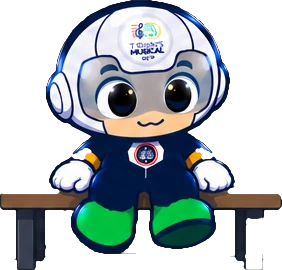
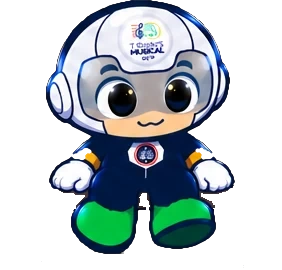
SETPI: el bus espera el rojo peatonal, la banca ya no se corta; Terminal Juridica se actualiza en vivo
- Los buses del viaje (llegada y salida, incluido el que deja a SETPI) solo se mueven con el semaforo peatonal en rojo y con tiempo suficiente; si coincide con el verde esperan
- La banca es un objeto aparte, igual en todos los cuadros: se quitan tablon y patas de bench_1..3 (venian cortados y cambiaban entre cuadros) y aparece detras de SETPI al sentarse
- Terminal Juridica: se actualiza sola cada 15 s (tambien al volver a la pestana o recuperar red), indicador En vivo con la hora de la ultima sincronizacion y espacio para el enlace de la matriz de procesos

diff --git a/setpi/scenes.js b/setpi/scenes.js
@@ -236,8 +236,12 @@
     });
     /* sentado en una banca balanceando las piernas (esperando) */
     def('bench', 'rest', 120, c => (c.ph === 'pin' && c.idle > 25) || (c.ph === 'lobby' && c.n <= 2 && c.idle > 20) ? 2.6 : (c.ph === 'lobby' || c.ph === 'pin') && c.idle > 14 ? .6 : 0, async () => {
-      P.setState('IDLE'); const s = P.spot({ lane: 'L' }); await P.goTo(s.x, s.y); await fit('bench'); await P.front(); await hold(.4);
-      a.fx('dust', { n: 2 }); await a.play(C.bench(2 + (Math.random() < .5 ? 1 : 0))); fin();
+      P.setState('IDLE'); const s = P.spot({ lane: 'L' }); await P.goTo(s.x, s.y); await fit('bench'); await P.front();
+      const bq = D.banca;       // la banca es un objeto aparte (igual en todos los cuadros): aparece detrás de SETPI, él se sienta, y se va al levantarse
+      try {
+        if (bq) { bq.pon(a.x, a.y - a.lift, a.S); bq.muestra(true); }
+        await hold(.45); a.fx('dust', { n: 2 }); await a.play(C.bench(2 + (Math.random() < .5 ? 1 : 0))); fin(); await hold(.3);
+      } finally { if (bq) bq.muestra(false); }
     }, ['bench']);
     /* un bus pasa por detrás: lo mira y lo saluda */
     def('busWave', 'bus', 30, c => D.busTarget && c.ph !== 'podium' ? (c.ph === 'quiz' ? 1.5 : 5.5) : 0, async () => {
@@ -246,14 +250,18 @@
       await hold(.3); await P.front();
     });
     /* viaje en bus: espera en la parada, llega el bus (detrás del panel), sube por la puerta y se despide por la ventanilla; vuelve en otro bus y baja por la puerta */
-    def('ride', 'bus', 100, c => (c.ph === 'pin' || c.ph === 'lobby') && c.idle > 8 && D.energy > .12 && D.t - D.lastJoin > 12 && P.rideGeo() ? ((c.ph === 'lobby' && c.n === 0 ? 3 : 1.8) + (D.busTarget ? 1 : 0)) * (D.rides ? (D.t - D.lastRideT > 150 ? 2.5 : 1) : 4) : 0, async () => {
+    def('ride', 'bus', 100, c => (c.ph === 'pin' || c.ph === 'lobby') && c.idle > 8 && D.energy > .12 && D.t - D.lastJoin > 12 && !D.busSale && P.rideGeo() ? ((c.ph === 'lobby' && c.n === 0 ? 3 : 1.8) + (D.busTarget ? 1 : 0)) * (D.rides ? (D.t - D.lastRideT > 150 ? 2.5 : 1) : 4) : 0, async () => {
       const g = P.rideGeo(), bus = P.bus, RIDE = P.RIDE, VBW = P.VBW; if (!g) return; const l = L();
       const apply0 = bus.apply;
+      /* el bus es un vehículo: solo se mueve (llega o se va) con el semáforo peatonal en rojo y con tiempo suficiente; en el cuestionario la calle ya está libre */
+      const sinPeatones = t => !D.mundo || D.mundo.hold || (D.luz === 'rojo' && D.luzRest > t);
+      const esperaRojo = async t => { for (let i = 0; i < 160 && !sinPeatones(t); i++) await a.wait(.4); };
       P.setState('RIDING'); D.riding = true; D.rides = (D.rides || 0) + 1; D.lastRideT = D.t;      // la primera vez pesa x4: que se vea pronto
       try {
         if (l.zebra && a.y > l.yU + 10) { await P.emerge(); await P.goTo(l.zebra.x, l.yU, { noZebra: true, free: false }); }   // viene de la calle: primero a la acera
         if (D.busTarget && Math.random() < .5) await SC.busWave.run();
         await P.goTo(g.xn - g.wait * g.s, g.y); P.setState('RIDING');
+        if (!sinPeatones(2.4)) { await P.front(); await a.play(C.around()); fin(); await esperaRojo(2.4); }          // el bus espera su turno: no entra con el verde peatonal
         await P.toR(1); await hold(.35); a.fx('alert'); await P.sayNow('¡Ahí viene mi bus!'); await hold(1); S.sayClear(a); D.lastSayT = D.t;
         bus.clipX = l.pr.left; bus.place(l.pr.left + 26, g.y, g.k); bus.show(true, false);
         const arrive = a.tween('x', g.xn, 1.9, 'out', bus);
@@ -267,8 +275,9 @@
         fire([{ f: 'bus_4', t: .6, fade: .04 }]); await Promise.all([a.tween('x', g.xn + RIDE.f4 * g.s, .5, 'io'), a.tween('lift', RIDE.l4 * g.s, .5, 'io'), a.tween('a', 0, .45, 'in', a.mod), a.tween('br', .35, .45, 'lin', a.mod)]);
         a.show(false); a.cancel(); a.lift = 0; D.away = true; P.setState('AWAY'); bus.front = false; bus.apply();
         await hold(.4);
-        await a.tween('x', -(VBW * g.k) - 80, 3.3, 'in3', bus); bus.apply = apply0; bus.show(false);
+        await esperaRojo(3.6); await a.tween('x', -(VBW * g.k) - 80, 3.3, 'in3', bus); bus.apply = apply0; bus.show(false);
         await hold(rnd(13, 22));                                                      // paseo
+        await esperaRojo(2.4);                                                        // el bus de regreso tampoco llega con el verde peatonal
         /* regreso: otro bus llega, SETPI aparece en la puerta y baja */
         D.away = false; D.active = D.t;
         let sh = 0; for (const f of [.4, .3, .2, .1]) { if (P.valid(g.xn - f * g.s + RIDE.e3 * g.s, g.y)) { sh = f; break; } }
@@ -291,10 +300,17 @@
           await a.play(J.land);
         } else { const sp = P.spot({ lane: 'L', minDist: 0 }); a.cancel(); await P.enter(sp.x, sp.y, 1.9); }
         a.stance = 'F'; a.rest('F');
-        a.tween('x', -(VBW * g.k) - 80, 3.1, 'in3', bus).then(() => bus.show(false)).catch(() => { });     // el bus se va por detrás del contenido
+        /* el bus que dejó a SETPI espera a que el semáforo peatonal llegue a rojo para irse (sigue solo aunque SETPI haga otra cosa) */
+        bus.front = false; bus.apply(); D.busSale = true;
+        { const sal = { va: false, t: 0, x0: 0 };
+          D.drivers.push(dt => {
+            if (!sal.va) { if (sinPeatones(3.6)) { sal.va = true; sal.x0 = bus.x; } return false; }
+            sal.t += dt; const p = Math.min(1, sal.t / 3.1); bus.x = sal.x0 + (-(VBW * g.k) - 80 - sal.x0) * p * p * p; bus.apply();
+            if (p >= 1) { bus.show(false); D.busSale = false; return true; } return false;
+          }); }
         const sp = P.spot({ lane: 'L', minDist: 0 }); await P.goTo(sp.x, sp.y, { speed: 1.4 });           // SETPI se aparta a la carretera (más cerca de la cámara)
         await P.front(); await hold(.3); await P.sayNow('¡Ya volví! ¿Listos?'); await P.wave(2, { force: true }); await hold(.5); S.sayClear(a); D.lastSayT = D.t;
-      } finally { bus.apply = apply0; a.lift = 0; D.riding = false; D.away = false; if (bus) bus.show(false); a.mod.a = 1; a.mod.br = 1; a.clipL = -1e9; a.noShadow = false; if (!a.scaleAt) a.scaleAt = y => L().sAt(y); }
+      } finally { bus.apply = apply0; a.lift = 0; D.riding = false; D.away = false; if (bus && !D.busSale) bus.show(false); a.mod.a = 1; a.mod.br = 1; a.clipL = -1e9; a.noShadow = false; if (!a.scaleAt) a.scaleAt = y => L().sAt(y); }
     });
 
     /* si el semáforo peatonal empieza a parpadear (o se pone en rojo) y SETPI sigue en la calle, vuelve a la acera por la cebra */

diff --git a/index.html b/index.html
@@ -204,6 +204,9 @@ tr.vg-filters th{padding:5px 6px 9px; text-transform:none; letter-spacing:0; fon
 .tabs{display:flex; gap:6px; margin:16px 0 0; flex-wrap:wrap;}
 .tab{padding:9px 16px; border-radius:999px; border:1px solid var(--line); background:var(--paper); font-weight:700; font-size:.82rem; color:var(--ink-soft);}
 .tab.active{background:var(--primary); color:#fff; border-color:var(--primary);}
+.tab-matriz{text-decoration:none; display:inline-block; background:var(--green,#26B67A); color:#fff; border-color:transparent;}
+.live-status{margin-left:auto; align-self:center; font-size:.72rem; font-weight:700; color:var(--ink-soft); padding:0 6px;}
+.live-status.ok{color:var(--green);} .live-status.err{color:var(--red);}
 
 .badge-demo{display:inline-block; background:var(--amber-bg); color:var(--amber); font-size:.68rem; font-weight:700; padding:3px 9px; border-radius:999px; margin-left:8px;}
 .footnote{text-align:center; color:var(--ink-soft); font-size:.72rem; margin-top:28px; line-height:1.6;}
@@ -591,6 +594,7 @@ function store(k, v){
    - en la página alojada fuera de Google (GitHub Pages, tu sitio): fetch, que no depende de las cuentas de Google del navegador.
    (Las barras de la dirección van escapadas: Google recorta el código que tenga dos barras seguidas dentro de un texto.) */
 const API_URL = "https:\/\/script.google.com\/macros\/s\/AKfycbwh302sYjlWRCTS20Gxzsj8T_u7Iw7bmPA3d-RcVZ0bCPAmp0thRFHKaX_m3gfFpiTQNg\/exec";
+const MATRIZ_URL = "";   // enlace de la Matriz de procesos en Google Hojas, SIN https:// (se arma abajo)
 function api(fn, ...args){
   return (window.google && google.script && google.script.run) ? apiGoogle(fn, args) : apiWeb(fn, args);
 }
@@ -665,6 +669,7 @@ function aplicarDatos(r){
   HOLIDAY_SET = new Set(r.festivos);
   TIPOS = r.tipos; DEPENDENCIAS = r.dependencias;
   const p = r.hoy.split("-"); TODAY = new Date(+p[0], +p[1]-1, +p[2]);
+  LIVE.ok = true; LIVE.t = new Date().toLocaleTimeString("es-CO",{hour:"2-digit",minute:"2-digit",second:"2-digit"});
 }
 async function cargar(){
   const r = await api("datos", TOKEN);
@@ -699,22 +704,31 @@ function guardarYa(id){
 }
 function guardarPendientes(){ return Promise.all([...dirty].map(id=>guardarYa(id))); }
 
+const LIVE = {ok:true, t:""};
+function pintaLive(){ const e=document.getElementById("live-status"); if(!e || !LIVE.t) return; e.textContent = LIVE.ok ? "● En vivo · "+LIVE.t : "○ Sin conexión · reintentando…"; e.className="live-status "+(LIVE.ok?"ok":"err"); e.title="Todos los computadores ven los mismos datos: la página se actualiza sola cada 15 s."; }
+let sincronizando = false;
 async function refrescar(){
-  if(!TOKEN && !INVITADO) return;
-  await guardarPendientes();
+  if((!TOKEN && !INVITADO) || sincronizando) return;
+  sincronizando = true;
   try{
+    await guardarPendientes();
     const antes = JSON.stringify(CASOS);
-    const tabAntes = viewTab;
     const r = INVITADO ? await api("datosPublicos") : await api("datos", TOKEN);
-    if(viewTab==="mine" || tabAntes==="mine" || viewTab==="norma") return;      // no pisar la edición propia
+    LIVE.ok = true; LIVE.t = new Date().toLocaleTimeString("es-CO",{hour:"2-digit",minute:"2-digit",second:"2-digit"}); pintaLive();
+    if(viewTab==="norma") return;
     const a = document.activeElement;
-    if(a && a.matches && a.matches("#vg-host input, #vg-host select")) return;   // está escribiendo un filtro: se actualiza en el próximo ciclo
+    if(a && a.matches && a.matches("#vg-host input, #vg-host select, #body input, #body select, #body textarea")) return;   // está escribiendo: se actualiza en el próximo ciclo
+    if(dirty.size) return;                                                                                                    // tiene cambios por guardar: no se pisan
     if(JSON.stringify(r.casos) !== antes){ CASOS = r.casos; PROFILES = r.usuarios.map(u=>Object.assign({}, u, {coord:u.rol==="coord"})); render(); }
   }catch(e){
+    LIVE.ok = false; if(!LIVE.t) LIVE.t = "-"; pintaLive();
     if(INVITADO && /desactivada/.test(e.message)){ INVITADO = false; ME = null; renderLogin(e.message); }   // la Dirección apagó la consulta abierta
-  }
+  }finally{ sincronizando = false; }
 }
-setInterval(()=>{ if((TOKEN || INVITADO) && viewTab!=="mine" && viewTab!=="norma") refrescar(); }, 60000);
+setInterval(()=>{ if((TOKEN || INVITADO) && !document.hidden && viewTab!=="norma") refrescar(); }, 15000);
+document.addEventListener("visibilitychange", ()=>{ if(!document.hidden) refrescar(); });
+window.addEventListener("online", ()=>refrescar());
+window.addEventListener("focus", ()=>refrescar());
 
 /* ===================== LOGIN ===================== */
 function renderLogin(msg){
@@ -1451,7 +1465,7 @@ function render(){
   app.innerHTML = `
     ${petalos(9)}
     ${topbar(profile)}
-    <div class="tabs">${tabs.map(([k,l])=>`<button class="tab ${viewTab===k?'active':''}" data-tab="${k}">${l}</button>`).join("")}</div>
+    <div class="tabs">${tabs.map(([k,l])=>`<button class="tab ${viewTab===k?'active':''}" data-tab="${k}">${l}</button>`).join("")}${MATRIZ_URL?`<a class="tab tab-matriz" href="${"https:\/\/"+MATRIZ_URL}" target="_blank" rel="noopener">Matriz de procesos · en vivo ↗</a>`:""}<span id="live-status" class="live-status" aria-live="polite"></span></div>
     <div id="body"></div>
     ${escenaCiudad()}
     <div class="footnote">Terminal Jurídica · SETP Ibagué</div>`;
@@ -1475,7 +1489,7 @@ function render(){
   else if(viewTab==="norma"){ bodyEl.innerHTML = renderNormativa(); wireNormativa(); }
   else if(viewTab==="control" && profile.coord){ renderControlOperativo(bodyEl); }
   else renderMisProcesos(bodyEl, profile);
-  animarNumeros(bodyEl);
+  animarNumeros(bodyEl); pintaLive();
 }
 
 function renderMisProcesos(bodyEl, profile){

diff --git a/setpi/director.js b/setpi/director.js
@@ -22,7 +22,8 @@
     const L = () => D.L;
     const setState = s => { D.state = s; };
     const bus = S.Bus ? S.Bus(slide, stage, a) : null;
-    D.paleta = S.Paleta ? S.Paleta(stage, a) : null;       // la paleta PARE / SIGA del paletero (va por detrás de SETPI)
+    D.paleta = S.Paleta ? S.Paleta(stage, a) : null;
+    D.banca = S.Banca ? S.Banca(stage, a) : null;       // la banca de la escena 'bench'       // la paleta PARE / SIGA del paletero (va por detrás de SETPI)
     const fire = (c, o) => a.play(c, o).catch(() => { });          // clip que corre en paralelo (no se espera)
 
     /* ================= escenario: todo derivado del layout real (nunca px fijos) ================= */
@@ -327,7 +328,8 @@
     let last = 0, chain = 0, wall = 0, sense = 0;
     const reduced = g.matchMedia && g.matchMedia('(prefers-reduced-motion: reduce)').matches;
     const isActive = () => !document.hidden && slide.classList.contains('activa');
-    D.step = dt => { D.t += dt; if (D.onTick) D.onTick(dt); if (D.mundo) { const pl = D.luz; D.mundo.step(dt); if (D.luz !== pl && D.onLuz) D.onLuz(D.luz, pl); } D.energy = clamp(D.energy + (.5 - D.energy) * dt * .004, 0, 1); a.update(dt); if (D.paleta) D.paleta.sync(); sense += dt; if (sense > .25) { sense = 0; senseBuses(); } };   // avance determinista (también para pruebas)
+    D.drivers = [];       // movimientos que siguen solos aunque SETPI cambie de escena (p. ej. el bus esperando el rojo para irse)
+    D.step = dt => { D.t += dt; if (D.onTick) D.onTick(dt); if (D.drivers.length) D.drivers = D.drivers.filter(f => !f(dt)); if (D.mundo) { const pl = D.luz; D.mundo.step(dt); if (D.luz !== pl && D.onLuz) D.onLuz(D.luz, pl); } D.energy = clamp(D.energy + (.5 - D.energy) * dt * .004, 0, 1); a.update(dt); if (D.paleta) D.paleta.sync(); sense += dt; if (sense > .25) { sense = 0; senseBuses(); } };   // avance determinista (también para pruebas)
     function kick() {
       const my = ++chain; last = 0;
       const f = ts => {

diff --git a/setpi/gente.js b/setpi/gente.js
@@ -171,6 +171,23 @@
     return G;
   };
 
+  /* ---- la banca (tablón + patas) como objeto aparte: la misma en todos los cuadros, así no se corta ni aparece y desaparece ---- */
+  S.Banca = function (stage, a) {
+    const el = document.createElement('div'); el.className = 'sp-banca';
+    el.innerHTML = `<svg viewBox="-70 -34 140 40" aria-hidden="true">
+      <ellipse cx="0" cy="-.5" rx="58" ry="3.6" fill="rgba(11,18,32,.18)"/>
+      <rect x="-45.6" y="-22.5" width="7.4" height="22" rx="1.6" fill="#383F4F" stroke="#222838" stroke-width="1"/><rect x="-44" y="-21.6" width="2.4" height="20" fill="#566078" opacity=".7"/>
+      <rect x="38.2" y="-22.5" width="7.4" height="22" rx="1.6" fill="#383F4F" stroke="#222838" stroke-width="1"/><rect x="39.8" y="-21.6" width="2.4" height="20" fill="#566078" opacity=".7"/>
+      <rect x="-60" y="-28.4" width="120" height="6.4" rx="2.4" fill="#7F583C" stroke="#3B281C" stroke-width="1"/><rect x="-58" y="-27.6" width="116" height="1.9" rx=".9" fill="#A57852" opacity=".9"/><rect x="-58" y="-24.2" width="116" height="1.6" fill="#4F3524" opacity=".55"/>
+    </svg>`;
+    stage.insertBefore(el, a.layerA);
+    const svg = el.querySelector('svg'), B = { on: false };
+    /* se coloca donde están los pies de SETPI (el ancla de los dibujos) y a su escala */
+    B.pon = (x, y, Sz) => { const k = Sz / 100; svg.style.width = (140 * k).toFixed(1) + 'px'; svg.style.height = (40 * k).toFixed(1) + 'px'; svg.style.left = (-70 * k).toFixed(1) + 'px'; svg.style.top = (-34 * k).toFixed(1) + 'px'; el.style.transform = 'translate3d(' + x.toFixed(1) + 'px,' + y.toFixed(1) + 'px,0)'; };
+    B.muestra = v => { B.on = v; el.style.opacity = v ? '1' : '0'; };
+    return B;
+  };
+
   /* ---- la paleta del paletero (PARE / SIGA) ---- */
   S.Paleta = function (stage, a) {
     const GL = { wave_f2: [-.406, -.5215], wave_f3: [.394, -.63] };             // dónde queda el guante (en alto de SETPI) en cada dibujo de la mano levantada

diff --git a/setpi/escena.css b/setpi/escena.css
@@ -115,6 +115,8 @@
 @keyframes gZancB{from{transform:translateY(-2.6px);} to{transform:translateY(0);}}
 @keyframes gRebote{from{transform:translateY(0);} to{transform:translateY(-.9px);}}
 @keyframes gRespira{from{transform:translateY(0);} to{transform:translateY(-.6px);}}
+.sp-banca{position:absolute; left:0; top:0; width:0; height:0; opacity:0; transition:opacity .25s ease-out; pointer-events:none; will-change:transform;}
+.sp-banca svg{position:absolute; display:block; overflow:visible;}
 .sp-paleta{position:absolute; left:0; top:0; width:0; height:0; opacity:0; transition:opacity .14s ease-out; pointer-events:none; will-change:transform;}
 .sp-paleta .pa-giro{position:absolute; left:0; top:0; width:0; height:0;}
 .sp-paleta svg{position:absolute; display:block; overflow:visible;}
